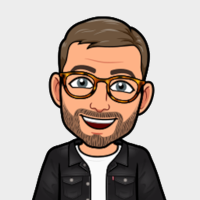
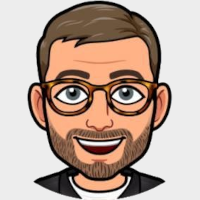
Added team members

diff --git a/index.html b/index.html
@@ -156,9 +156,9 @@
                                 <!-- Slide -->
                                 <div class="swiper-slide">
                                     <div class="card">
-                                        <img class="card-image" src="images/team-placeholder.jpg">
+                                        <img class="card-image" src="images/team-kristina.png">
                                         <div class="card-body">
-                                            <p class="team-text">TBD</p>
+                                            <p class="team-text">Kristina is studying Business Engineering and is mainly responsible for marketing communication.</p>
                                             <p class="team-author">Kristina<br>Marketing</p>
                                         </div>
                                     </div>
@@ -168,7 +168,7 @@
                                 <!-- Slide -->
                                 <div class="swiper-slide">
                                     <div class="card">
-                                        <img class="card-image" src="images/team-placeholder.jpg">
+                                        <img class="card-image" src="images/team-christiank.png">
                                         <div class="card-body">
                                             <p class="team-text">TBD</p>
                                             <p class="team-author">Christian<br>Finance</p>
@@ -180,10 +180,10 @@
                                 <!-- Slide -->
                                 <div class="swiper-slide">
                                     <div class="card">
-                                        <img class="card-image" src="images/team-placeholder.jpg">
+                                        <img class="card-image" src="images/team-jannis.png">
                                         <div class="card-body">
-                                            <p class="team-text">TBD</p>
-                                            <p class="team-author">Jannis<br>Business Analytics</p>
+                                            <p class="team-text">Jannis had been working as a consultant before founding a sales company 3 years ago. At Ruminator he's involved in sales.</p>
+                                            <p class="team-author">Jannis<br>Sales</p>
                                         </div>
                                     </div>        
                                 </div> <!-- end of swiper-slide -->
@@ -228,9 +228,9 @@
                                 <!-- Slide -->
                                 <div class="swiper-slide">
                                     <div class="card">
-                                        <img class="card-image" src="images/team-placeholder.jpg">
+                                        <img class="card-image" src="images/team-daniel.png">
                                         <div class="card-body">
-                                            <p class="team-text">TBD</p>
+                                            <p class="team-text">Daniel has been working as a software developer for 2 years. He is mainly responsible for the frontend.</p>
                                             <p class="team-author">Daniel<br>Development</p>
                                         </div>
                                     </div>        
@@ -240,7 +240,7 @@
                                 <!-- Slide -->
                                 <div class="swiper-slide">
                                     <div class="card">
-                                        <img class="card-image" src="images/team-placeholder.jpg">
+                                        <img class="card-image" src="images/team-ozan.png">
                                         <div class="card-body">
                                             <p class="team-text">TBD</p>
                                             <p class="team-author">Ozan<br>Risk Management</p>
